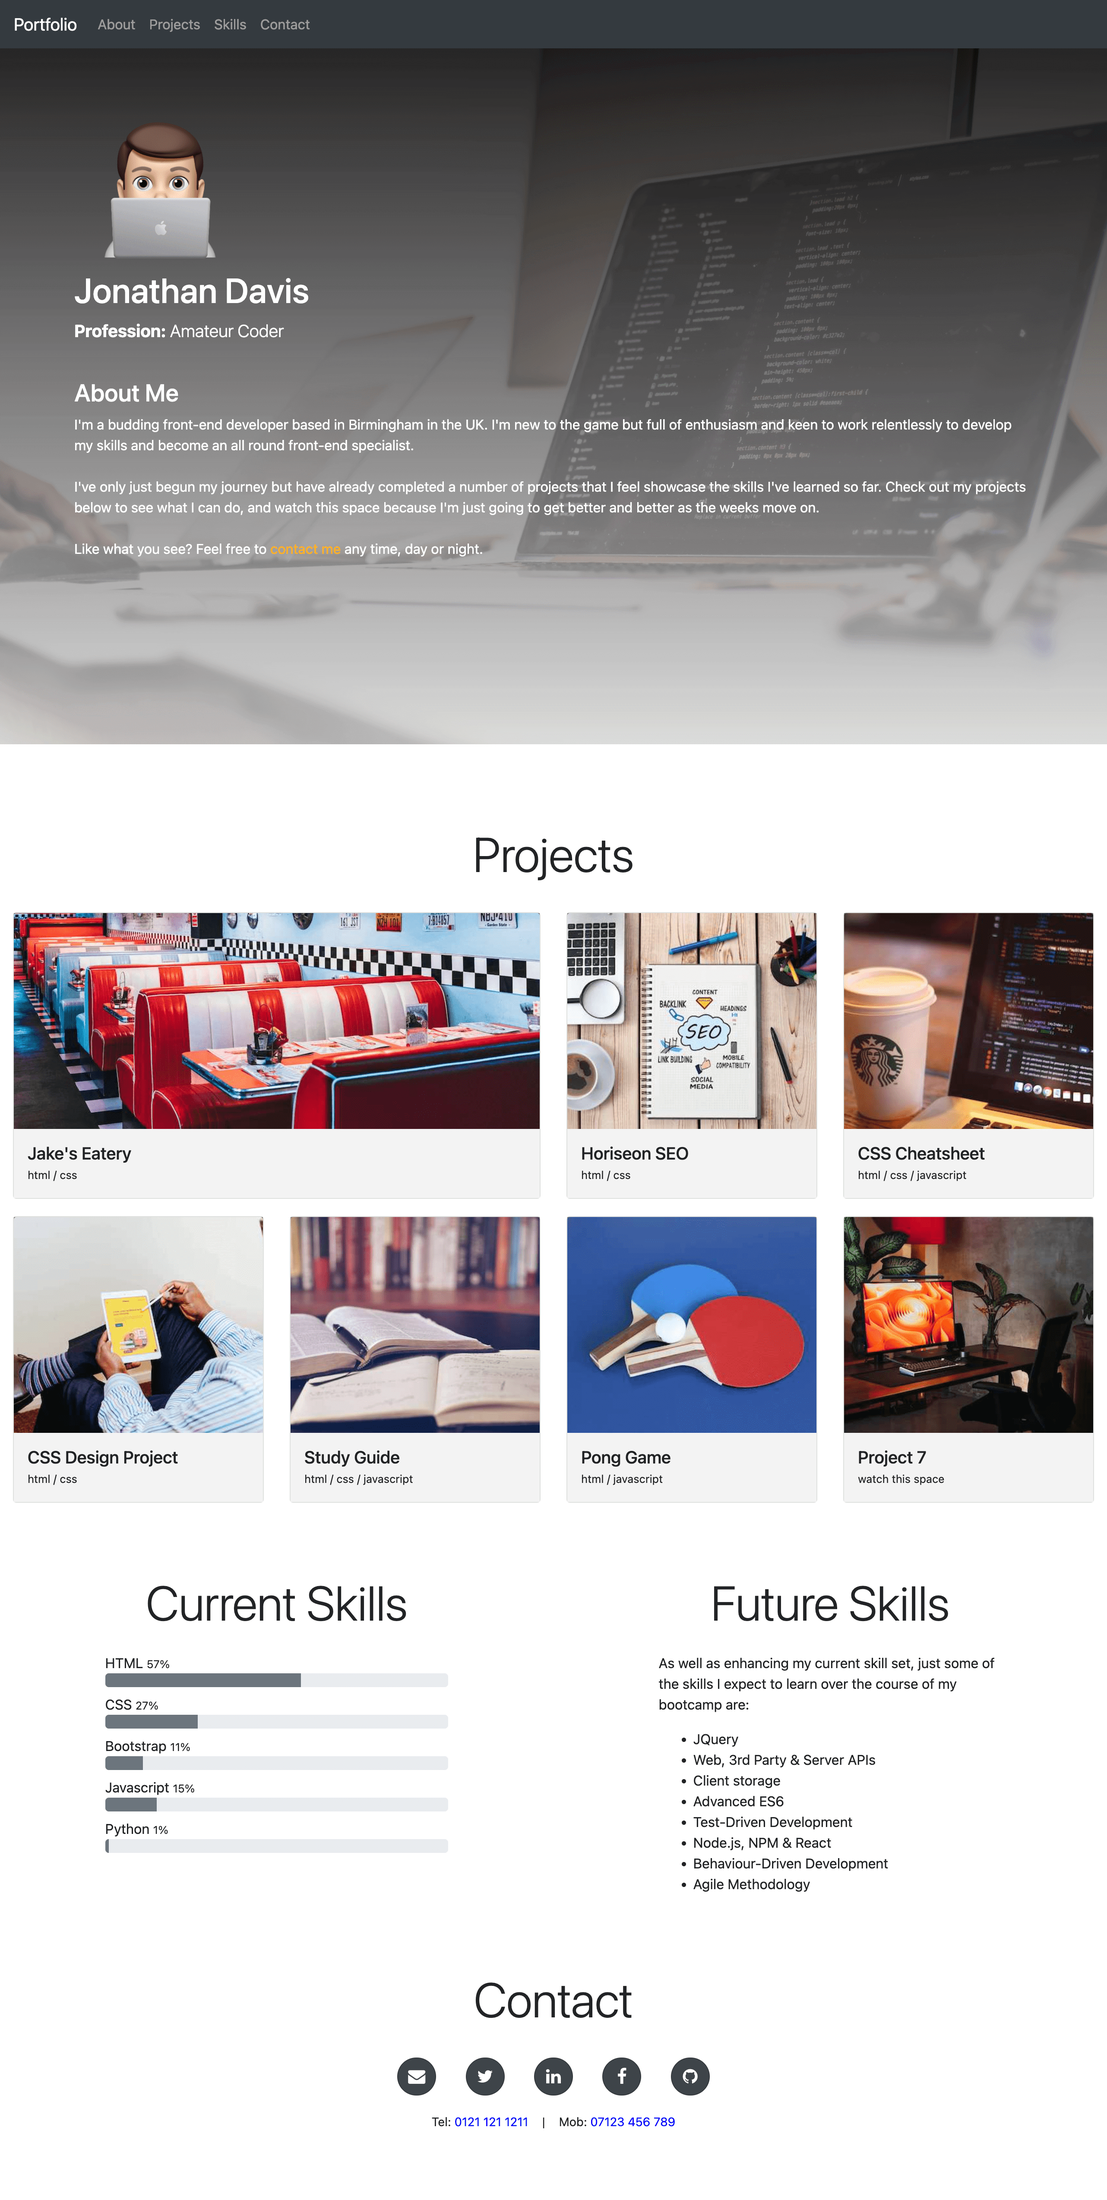
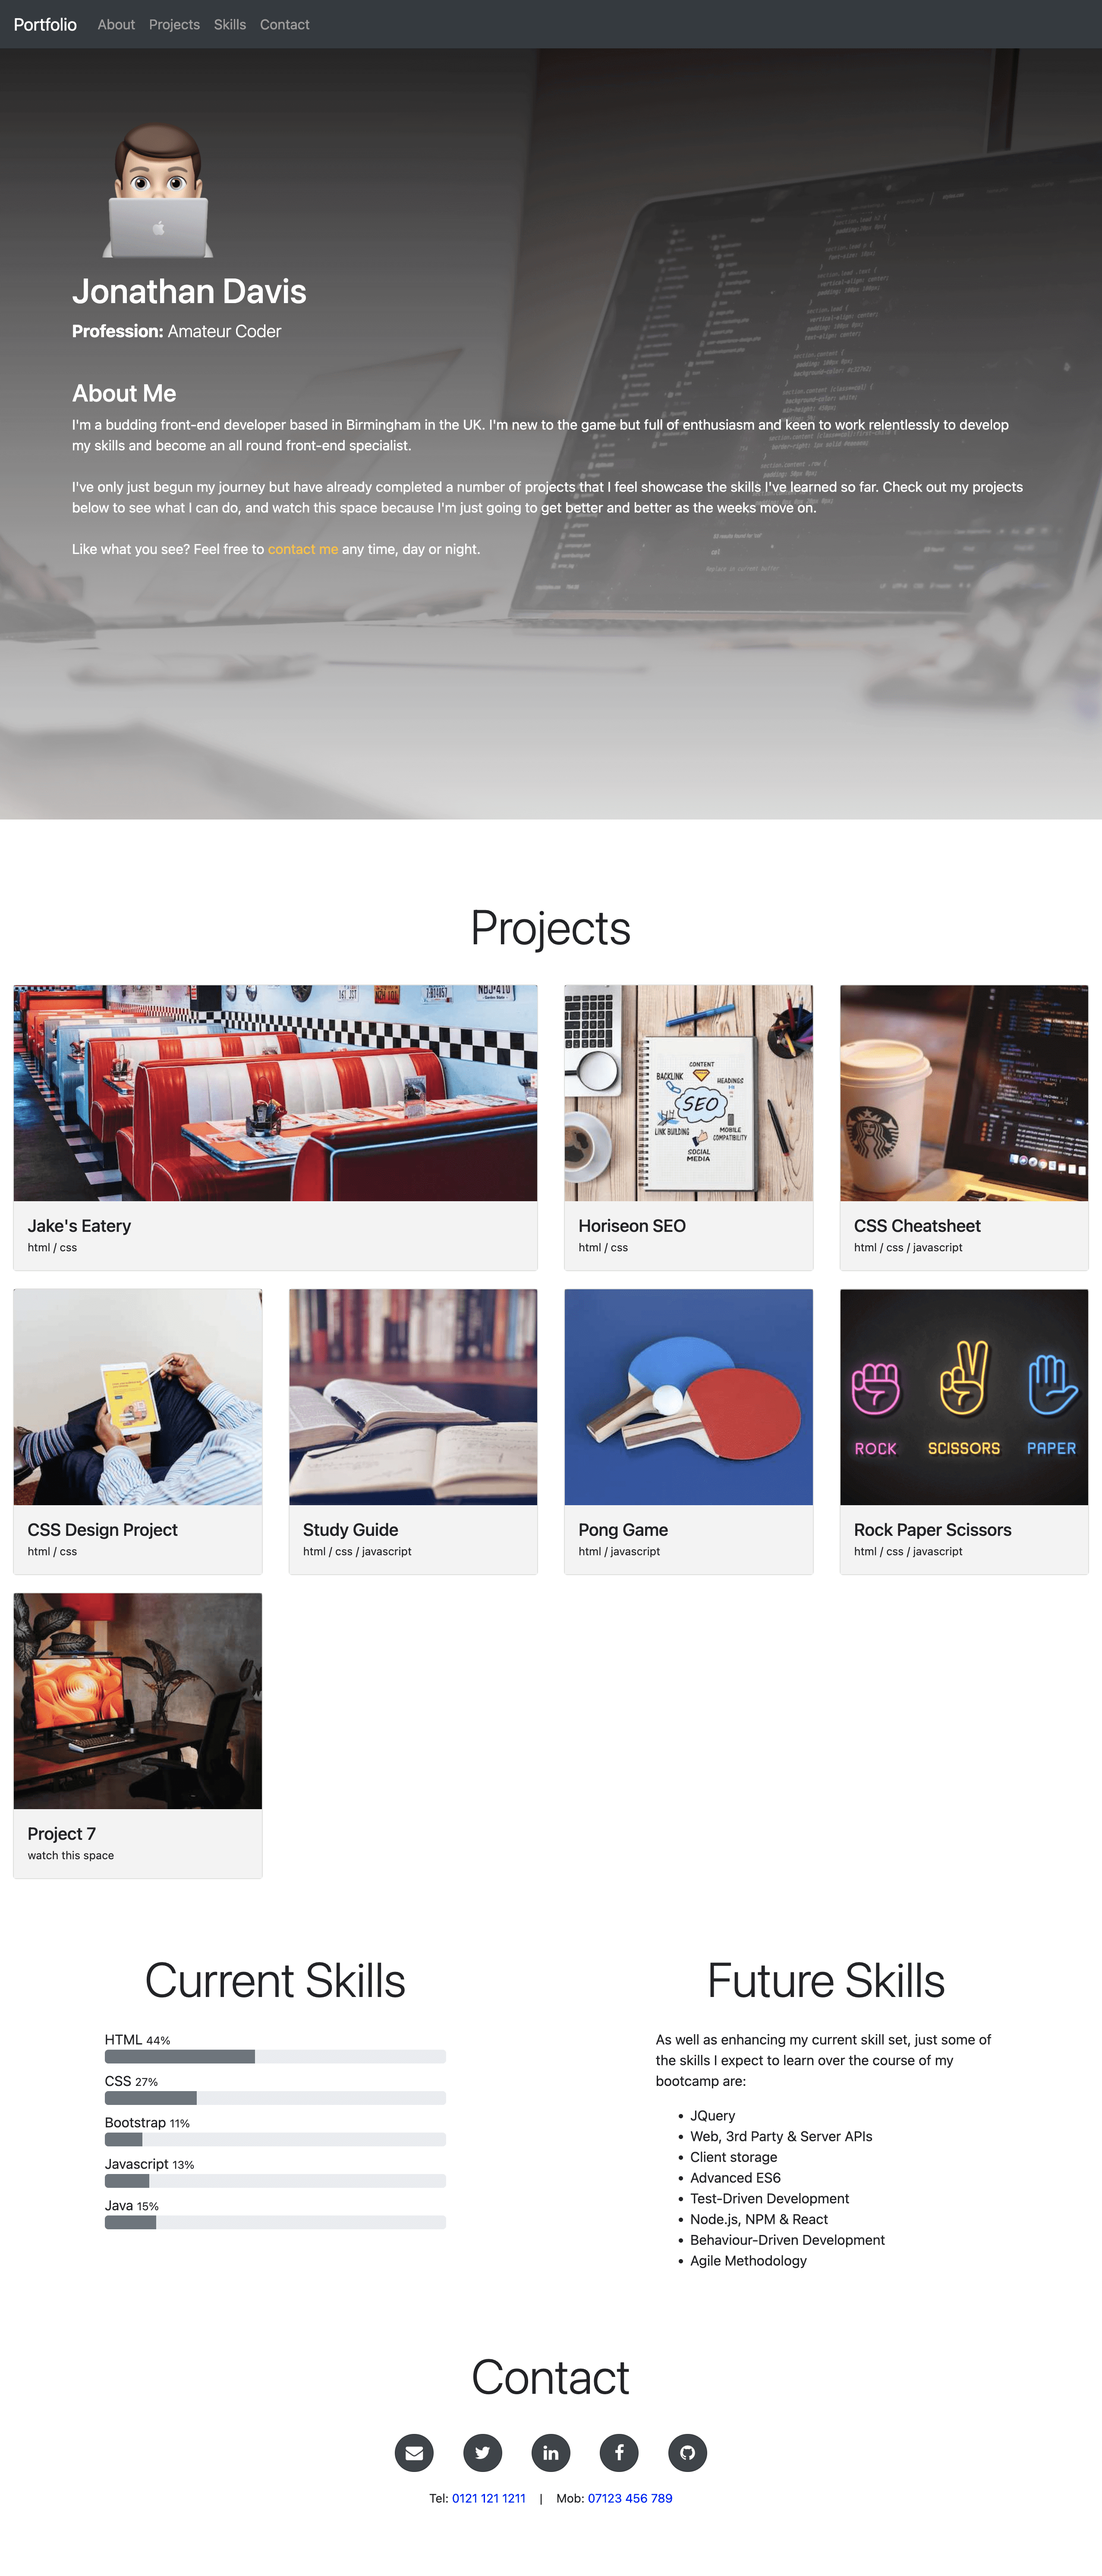
Added project and updated screenshot

diff --git a/index.html b/index.html
@@ -137,7 +137,20 @@
               </div>
             </div>
           </div>
+          <!-- Human Vectors by Vecteezy - https://www.vecteezy.com/free-vector/human -->
           <div id="p7" class="col-sm-6 col-md-4 col-lg-3">
+            <div class="card">
+              <div class="img-wrapper">
+                <a href="https://trunten.github.io/fm-rock-paper-scissors/" target="_blank" class="btn btn-outline-light rounded-pill">Deployed Site</a>
+                <img src="./assets/images/rps.png" class="card-img-top" loading="lazy">
+              </div>
+              <div class="card-body p-3">
+                <h5 class="card-title my-0">Rock Paper Scissors</h5>
+                <p class="card-text"><span class="small">html / css / javascript</span></p>
+              </div>
+            </div>
+          </div>
+          <div id="p8" class="col-sm-6 col-md-4 col-lg-3">
             <div class="card">
               <div class="img-wrapper">
                 <a href="https://trunten.github.io/python-gui-test/" target="_blank" class="btn btn-outline-light rounded-pill">Deployed Site</a>
